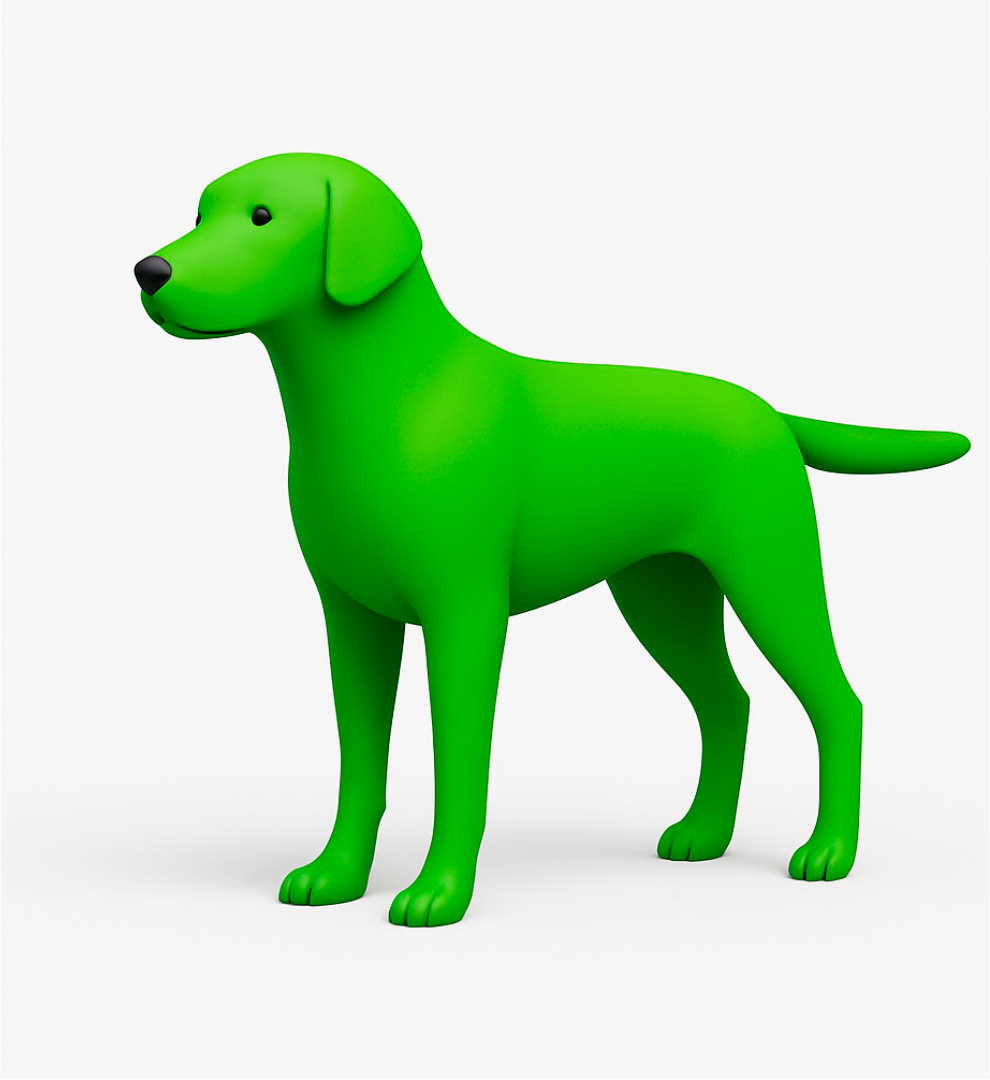
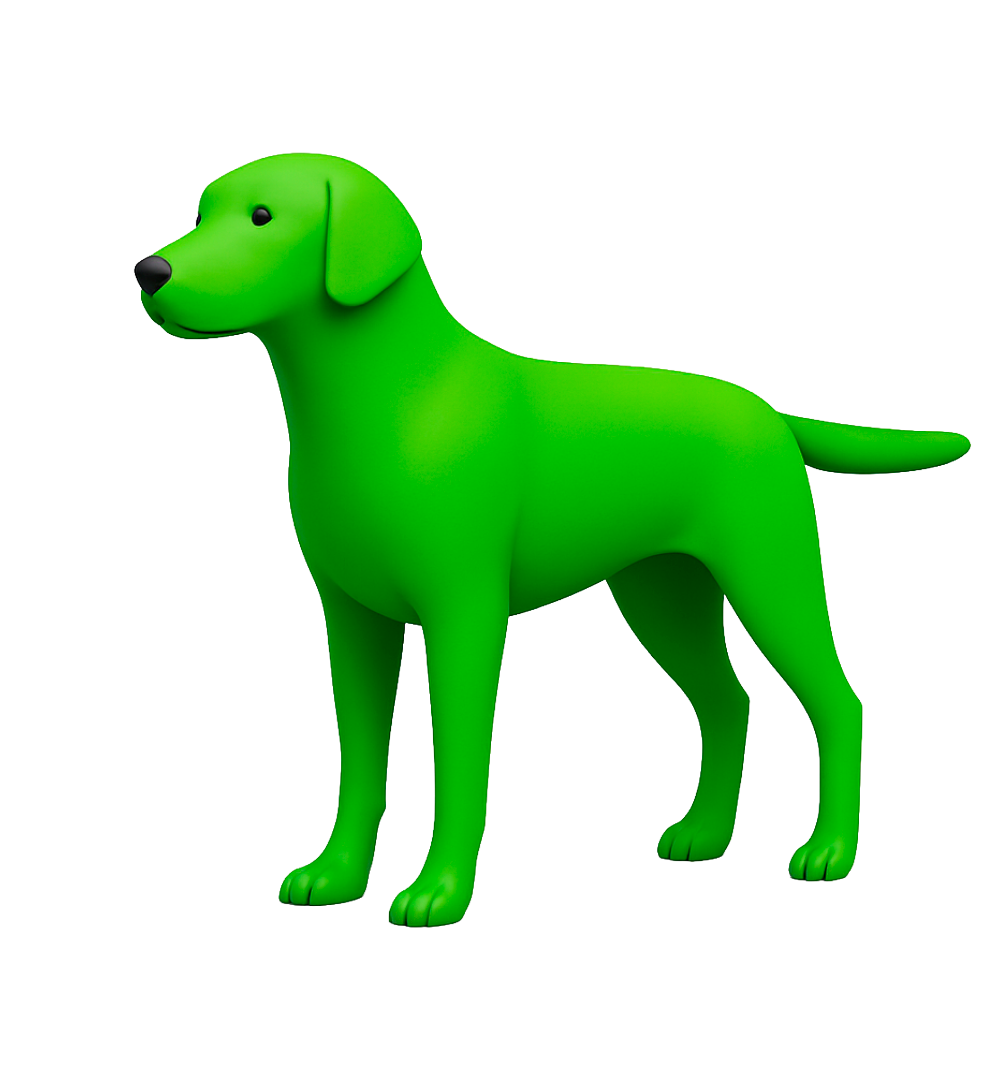
ya alv

Changed region(s): [[0.4545, 0.7639, 0.8182, 0.8556], [0.1515, 0.7639, 0.3333, 0.8556], [0.3636, 0.7639, 0.4545, 0.8556]]

diff --git a/components/DogMapWithProducts.tsx b/components/DogMapWithProducts.tsx
@@ -50,8 +50,10 @@ export function DogMapWithProducts({ defaultProducts }: DogMapWithProductsProps)
     hombro: 'Hombro',
     codo: 'Codo',
     rodilla: 'Rodilla',
-    pata_front: 'Pata frontal',
-    pata_back: 'Pata trasera',
+    tarso: 'Tarso o Tobillo',
+    carpo: 'Carpo o Muñeca',
+    mano: 'Mano',
+    pataydedos: 'Pata y Dedos',
   }
 
   const features = [
@@ -128,7 +130,7 @@ export function DogMapWithProducts({ defaultProducts }: DogMapWithProductsProps)
           {/* 1 - TEXT HAZ CLICK  ULISES -- REMOVER ESTA MIERDA SIN ROMPER LA PAGINA*/}
           <div className="order-1 xl:order-1 flex items-end min-h-12">
             <p className="text-[#F5F5F5] font-sans font-medium text-lg leading-tight text-center">
-              
+
             </p>
           </div>
 

diff --git a/components/Perro3D.tsx b/components/Perro3D.tsx
@@ -127,10 +127,10 @@ export default function DogMap({ onPartSelect }: DogMapProps) {
 
       {/* Imagen base */}
       <Image
-        src="/img/perro3d/bg-rem.png"
+        src="/img/perro3d/bg.png"
         alt="Perro base"
         fill
-        className="object-contain pointer-events-none scale-[2]"
+        className="object-contain pointer-events-none"
       />
 
       {/* Capas de body parts */}
